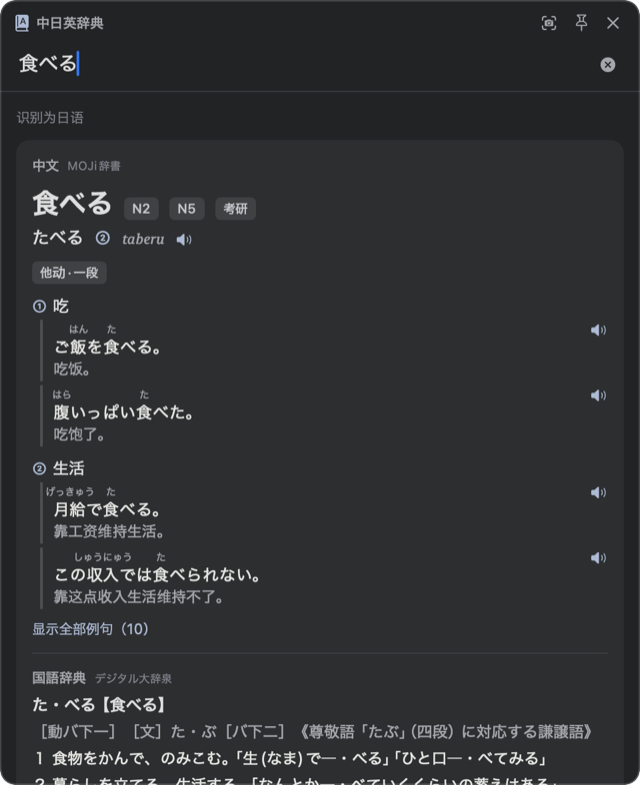
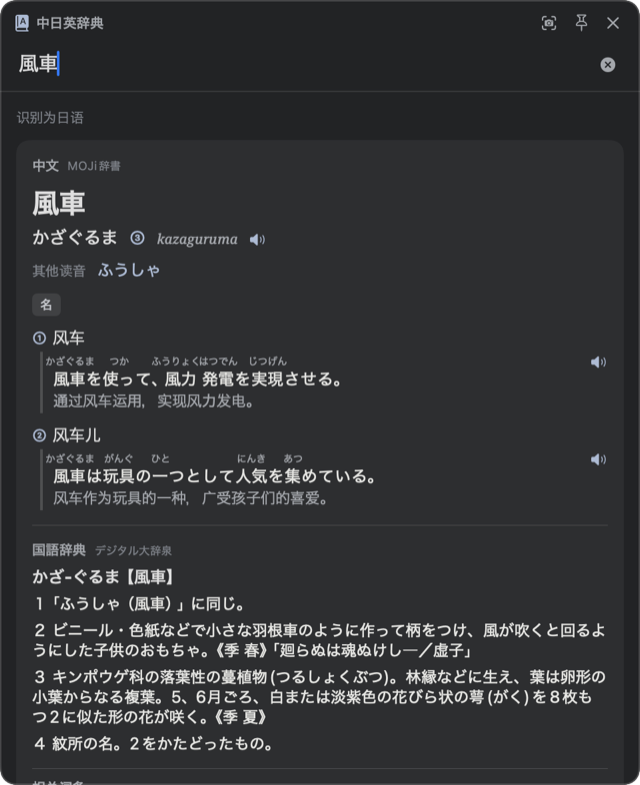
README: rewrite for everyday users, regenerate demos
- Rewrite the README as a product page: highlights up front, the three
  ways to look up, a feature list covering false-friend warnings and
  soft-wrap joining, install, shortcuts, FAQ (incl. privacy), sources;
  developer notes stay collapsed at the end.
- Regenerate demos with the latest build: the input demo looks up 手纸
  (false-friend warning, ちり紙), screenshots show 風車 (other readings,
  国語辞典), 手纸, and a Japanese sentence with furigana.
- Demo GIFs are now encoded with an ffmpeg palette for cleaner text.

diff --git a/scripts/demo/scene.swift b/scripts/demo/scene.swift
@@ -234,18 +234,37 @@ func screenshotOverlay(_ sel: NSRect) {
 
 // MARK: - 输出
 
+/// 逐帧缩放成 PNG，再用 ffmpeg 按整段动画生成调色板编码 GIF（比 ImageIO 逐帧量化的色带少、文字更清楚）
 func writeGIF(_ frames: [(NSBitmapImageRep, Int)], to path: String) {
     let outH = Int(CGFloat(outputWidth) * H / W)
-    let dest = CGImageDestinationCreateWithURL(URL(fileURLWithPath: path) as CFURL, UTType.gif.identifier as CFString, frames.count, nil)!
-    CGImageDestinationSetProperties(dest, [kCGImagePropertyGIFDictionary: [kCGImagePropertyGIFLoopCount: 0]] as CFDictionary)
-    for (rep, delay) in frames {
+    let dir = URL(fileURLWithPath: NSTemporaryDirectory()).appendingPathComponent("gif-\(UUID().uuidString)")
+    try! FileManager.default.createDirectory(at: dir, withIntermediateDirectories: true)
+    defer { try? FileManager.default.removeItem(at: dir) }
+    var list = ""
+    for (i, (rep, delay)) in frames.enumerated() {
         let ctx = CGContext(data: nil, width: outputWidth, height: outH, bitsPerComponent: 8, bytesPerRow: 0,
                             space: CGColorSpace(name: CGColorSpace.sRGB)!, bitmapInfo: CGImageAlphaInfo.premultipliedLast.rawValue)!
         ctx.interpolationQuality = .high
         ctx.draw(rep.cgImage!, in: CGRect(x: 0, y: 0, width: outputWidth, height: outH))
-        CGImageDestinationAddImage(dest, ctx.makeImage()!, [kCGImagePropertyGIFDictionary: [kCGImagePropertyGIFDelayTime: Double(delay) / 1000]] as CFDictionary)
+        let file = dir.appendingPathComponent(String(format: "f%03d.png", i))
+        let dest = CGImageDestinationCreateWithURL(file as CFURL, UTType.png.identifier as CFString, 1, nil)!
+        CGImageDestinationAddImage(dest, ctx.makeImage()!, nil)
+        precondition(CGImageDestinationFinalize(dest))
+        list += "file '\(file.path)'\nduration \(Double(delay) / 1000)\n"
     }
-    precondition(CGImageDestinationFinalize(dest))
+    // concat 的最后一帧要重复一次，duration 才会生效
+    list += "file '\(dir.appendingPathComponent(String(format: "f%03d.png", frames.count - 1)).path)'\n"
+    let listURL = dir.appendingPathComponent("list.txt")
+    try! list.write(to: listURL, atomically: true, encoding: .utf8)
+
+    let ffmpeg = Process()
+    ffmpeg.executableURL = URL(fileURLWithPath: "/usr/bin/env")
+    ffmpeg.arguments = ["ffmpeg", "-loglevel", "error", "-y", "-f", "concat", "-safe", "0", "-i", listURL.path,
+                        "-vf", "split[a][b];[a]palettegen=stats_mode=full:reserve_transparent=0[p];[b][p]paletteuse=dither=sierra2_4a",
+                        "-fps_mode", "vfr", "-loop", "0", path]
+    try! ffmpeg.run()
+    ffmpeg.waitUntilExit()
+    precondition(ffmpeg.terminationStatus == 0, "ffmpeg 失败")
     print("wrote \(path) (\(frames.count) frames)")
 }
 

diff --git a/README.md b/README.md
@@ -1,40 +1,50 @@
 <h1 align="center">中日英辞典</h1>
 
 <p align="center">
-  面向中文用户的 macOS 日语、英语查词与翻译工具<br>
-  支持划词翻译、截图翻译与输入翻译，同时呈现中、日、英三语结果
+  专为中文用户打造的 macOS 日语、英语查词与翻译工具<br>
+  划词、截图、输入，一个窗口同时呈现中、日、英三语结果
 </p>
 
 <p align="center">
   <a href="../../releases/latest"><img alt="release" src="https://img.shields.io/github/v/release/FinnKyo/mac-trilingual-dict?color=3E5C82&label=版本"></a>
   <img alt="platform" src="https://img.shields.io/badge/macOS-14%2B-3E5C82">
-  <img alt="arch" src="https://img.shields.io/badge/Apple%20Silicon%20%7C%20Intel-3E5C82">
-  <a href="LICENSE"><img alt="license" src="https://img.shields.io/badge/license-GPL--3.0-3E5C82"></a>
+  <img alt="arch" src="https://img.shields.io/badge/Apple%20芯片%20%7C%20Intel-3E5C82">
+  <img alt="price" src="https://img.shields.io/badge/免费-开源-3E5C82">
 </p>
 
 <p align="center">
-  <a href="../../releases/latest">下载</a> · <a href="#安装">安装</a> · <a href="#快捷键">快捷键</a> · <a href="#常见问题">常见问题</a>
+  <a href="../../releases/latest"><b>下载最新版</b></a> · <a href="#安装">安装</a> · <a href="#快捷键">快捷键</a> · <a href="#常见问题">常见问题</a>
 </p>
+
+---
+
+- **三语同屏**：输入任意一种语言，另外两种语言的结果一次呈现，无需来回切换
+- **专业词典**：日语采用 MOJi 辞書与《デジタル大辞泉》，英语采用有道词典，释义、读音、例句一应俱全
+- **同形异义提醒**：中日写法相同、意思不同的词（手纸 / 手紙、床、娘、走），自动提醒并给出正确说法
+- **假名注音**：日文原文与译文自动标注假名，点击任意单词即可查询
+- **轻量常驻**：菜单栏常驻，快捷键随时唤起，免费、无广告
 
 ## 划词翻译
 
-选中任意应用中的文本，悬停于随即出现的图标上，即可在选区旁查看释义。查询内容可在窗口中直接修改。
+在任意应用中选中文本，悬停于随即出现的图标上，即可在选区旁查看结果。查询内容可在窗口中直接修改，自动重新查询。
 
-<p align="center"><img src="docs/demo-selection.gif" width="660" alt="划词翻译"></p>
+<p align="center"><img src="docs/demo-selection.gif" width="680" alt="划词翻译"></p>
 
 ## 截图翻译
 
-按 `⌥S` 框选屏幕区域，识别其中的文字并翻译，适用于漫画、游戏、视频字幕等无法选中的文本。日文结果附假名注音。
+按 `⌥S` 框选屏幕区域，识别其中的文字并翻译，漫画、游戏、视频字幕、图片中无法选中的文字同样适用。文字识别在本机完成，日文结果自动标注假名。
 
-<p align="center"><img src="docs/demo-screenshot.gif" width="660" alt="截图翻译"></p>
+<p align="center"><img src="docs/demo-screenshot.gif" width="680" alt="截图翻译"></p>
 
 ## 输入翻译
 
-按 `⌥A` 打开翻译窗口，支持输入中文、英文、日文。
+按 `⌥A` 打开翻译窗口，中文、英文、日文直接输入，自动识别语言。
 
-<p align="center"><img src="docs/demo-input.gif" width="660" alt="输入翻译"></p>
+中文「手纸」是卫生纸，日语「手紙」却是信件。机器翻译遇到这类同形异义词常常照搬汉字，中日英辞典会明确提醒，并列出经词典确认的正确说法。
 
-<sub>演示中的阅读窗口与图片为示意内容，翻译窗口为应用实际界面。</sub>
+<p align="center"><img src="docs/demo-input.gif" width="680" alt="输入翻译"></p>
+
+<sub>演示中的阅读窗口与漫画为示意内容，翻译窗口为应用实际界面。</sub>
 
 ## 查询结果
 
@@ -43,65 +53,68 @@
     <th align="center">日语单词</th>
     <th align="center">英语单词</th>
     <th align="center">中文单词</th>
-    <th align="center">句子</th>
+    <th align="center">日语句子</th>
   </tr>
   <tr>
     <td><picture><source media="(prefers-color-scheme: dark)" srcset="docs/shot-ja-dark.png"><img src="docs/shot-ja-light.png" width="220" alt="日语单词"></picture></td>
     <td><picture><source media="(prefers-color-scheme: dark)" srcset="docs/shot-en-dark.png"><img src="docs/shot-en-light.png" width="220" alt="英语单词"></picture></td>
     <td><picture><source media="(prefers-color-scheme: dark)" srcset="docs/shot-zh-dark.png"><img src="docs/shot-zh-light.png" width="220" alt="中文单词"></picture></td>
-    <td><picture><source media="(prefers-color-scheme: dark)" srcset="docs/shot-sentence-dark.png"><img src="docs/shot-sentence-light.png" width="220" alt="句子"></picture></td>
+    <td><picture><source media="(prefers-color-scheme: dark)" srcset="docs/shot-sentence-dark.png"><img src="docs/shot-sentence-light.png" width="220" alt="日语句子"></picture></td>
   </tr>
 </table>
 
 ## 功能
 
-**三语互译**
-- 输入任一语言，同时显示另外两种语言的结果
-- 单词显示词典释义，句子显示机器翻译
-- 中文单词的日语结果以机器翻译为主，下方列出词典确认的日语对应词（汉日词典，经 MOJi 辞書校验）和相关日语词，可点击查看完整词条
-- 识别中日同形异义词：机器翻译把「床」「娘」「走」照搬成日语的「床（地板）」「娘（女儿）」「走る（跑）」时给出提醒，并列出正确的对应词「ベッド」「母」「歩く」
-- 句子翻译可选 Bing 翻译或 macOS 系统离线翻译，长文本自动分段翻译并保留原有分段；从 PDF、网页复制的文字会先合并排版折行，再整句翻译
-
 **日语词典**
 - 读音、声调、罗马音、词性、JLPT 等级
-- 分义项的中文释义，例句附假名注音与中文翻译
-- 单词与例句均提供真人发音
-- 日文释义来自《デジタル大辞泉》，可展开全部义项
-- 自动还原活用形，如「食べさせられた」→「食べる」
-- 同形异读词列出其他读音，可一键切换，如「生物」せいぶつ／なまもの／いきもの
-- 同音词与相关词条
+- 分义项中文释义，例句附假名注音与中文翻译
+- 单词与例句均配有真人发音
+- 收录《デジタル大辞泉》日文原版释义，可展开全部义项
+- 自动还原活用形，查「食べさせられた」直接得到「食べる」
+- 同形异读词列出全部读音，一键切换，如「風車」かざぐるま／ふうしゃ、「生物」せいぶつ／なまもの
 
 **英语词典**
-- 英美音标与发音
-- 考试标签（CET-4 / CET-6 / 考研 / GRE 等）
+- 英美音标与真人发音
+- 四六级、考研、GRE 等考试标签
 - 词形变化、常用短语、双语例句
 
-**其他**
-- 日文原文与译文自动标注假名（离线形态素分析，多音字、数量词按上下文读，如「一日中」「二十歳」「三本」）
-- 点击句子里的日语单词即可查询它的原形（点「行った」查「行く」）
-- 自动识别输入语言；「命令」「学习」这类中日都能成立的汉字词，可一键改按另一种语言查询
-- 释义中的词语可直接查询，支持返回
-- 常驻菜单栏，支持浅色与深色模式
+**中文查日语、英语**
+- 英文给出词典释义，点击英文单词可继续查询
+- 日文给出机器翻译，以及经汉日词典确认的日语说法，均附读音与释义
+- 识别中日同形异义词，提醒日语中的真正含义，避免照搬汉字造成误用
+
+**句子翻译**
+- 任一语言的句子同时译为另外两种语言
+- 日文句子自动标注假名，点击句中单词即可查询其原形（点「行った」查询「行く」）
+- 自动合并从 PDF、网页复制时产生的排版换行，整句翻译更准确
+- 支持 Bing 翻译与 macOS 系统离线翻译，可设置失败时自动切换
+
+**更多细节**
+- 自动识别输入语言；「学习」「命令」等中日通用的汉字词可一键切换语言重新查询
+- 释义中的词语可直接点击查询，支持返回
+- 支持浅色与深色模式
 
 ## 安装
 
 1. 从 [Releases](../../releases/latest) 下载 `DictTranslator-x.y.z.zip`，解压后将 `DictTranslator.app` 移至「应用程序」文件夹。
+
 2. 首次打开时，系统可能提示「已损坏，无法打开」或「无法验证开发者」。本应用未经 Apple 公证，文件本身并无问题，可通过以下任一方式打开：
    - 前往「系统设置 › 隐私与安全性」，在页面底部点击「仍要打开」；
    - 或在「终端」中执行：
      ```bash
      xattr -dr com.apple.quarantine /Applications/DictTranslator.app
      ```
+
 3. 根据引导授予以下权限：
 
    | 权限 | 用途 |
    |---|---|
    | 辅助功能 | 读取其他应用中选中的文本（划词翻译、`⌥D`） |
-   | 屏幕与系统音频录制 | 截取所选区域并识别文字（`⌥S`），授权后需重启应用 |
+   | 屏幕与系统音频录制 | 截图翻译（`⌥S`），授权后需重启应用 |
 
-截图仅在本机完成文字识别，图片在识别后立即删除，不会上传。识别出的文字及划词选中的文字将发送至词典与翻译服务进行查询。
+   未授予的权限只影响对应功能，输入翻译不受影响。
 
-更新时，下载新版本并覆盖原有应用即可。
+**更新**：下载新版本覆盖原有应用即可，设置会保留。
 
 **系统要求**：macOS 14 或更高版本，支持 Apple 芯片与 Intel 处理器。
 
@@ -116,37 +129,44 @@
 
 快捷键可在「设置 › 通用」中自定义。
 
-- 翻译窗口失去焦点时自动关闭，点击右上角图钉可将其固定。
-- 划词翻译时窗口显示在选区附近，通过快捷键打开时显示在屏幕右上角。
-- 可在「设置 › 划词」中将指定应用加入黑名单，不显示划词图标。
+- 翻译窗口失去焦点时自动收起，点击右上角图钉可固定窗口。
+- 划词时窗口显示在选区附近，通过快捷键打开时显示在屏幕右上角。
+- 可在「设置 › 划词」中将应用加入黑名单，不显示划词图标。默认包含终端、Xcode、VS Code 与访达。
+- 句子翻译默认使用 Bing。macOS 26 及以上可改用系统离线翻译，需先在「系统设置 › 通用 › 语言与地区 › 翻译语言」中下载中文、英语、日语。
 
 ## 常见问题
 
 <details>
 <summary>已在系统设置中授权，应用仍显示「未授权」</summary>
 
-更新应用后，系统可能将其识别为新的应用。请在「系统设置 › 隐私与安全性」的对应权限中移除「中日英辞典」，重新添加或勾选后重启应用。
+更新应用后，系统可能将其识别为新应用。请在「系统设置 › 隐私与安全性」的对应权限中移除「中日英辞典」，重新添加或勾选后重启应用。
 </details>
 
 <details>
 <summary>选中文本后未出现划词图标</summary>
 
 - 确认已授予「辅助功能」权限，且菜单栏菜单中已勾选「划词翻译」。
-- 确认当前应用不在划词黑名单中（「设置 › 划词」）。默认黑名单包括终端、Xcode、VS Code 和访达。
+- 确认当前应用不在划词黑名单中（「设置 › 划词」）。
 - 图标会在数秒后自动隐藏，可在设置中调整显示时长。
-- 划词图标只通过「辅助功能」读取选中文本，不会模拟 ⌘C、不会改动剪贴板；少数不支持辅助功能的应用中读不到选区，此时可在选中文本后按 `⌥D` 直接翻译。
+- 划词仅通过系统辅助功能读取选中文本，不会模拟 ⌘C，也不会改动剪贴板。少数不支持辅助功能的应用无法读取选区，此时选中文本后按 `⌥D` 即可翻译。
 </details>
 
 <details>
 <summary>查询失败或句子无翻译结果</summary>
 
-查询需要网络连接。可点击结果中的「重试」，或在输入框中按回车重新查询。句子翻译默认使用 Bing，可在「设置 › 通用」中改用系统离线翻译，或开启「失败时自动换用另一个服务」。系统离线翻译需 macOS 26 或更高版本，并在「系统设置 › 通用 › 语言与地区 › 翻译语言」中下载中文、英语、日语。
+查询需要网络连接。可点击结果中的「重试」，或在输入框中按回车重新查询。也可在「设置 › 通用」中开启「失败时自动换用另一个服务」，或改用系统离线翻译。
 </details>
 
 <details>
 <summary>汉字词被识别成了另一种语言</summary>
 
-「命令」「学习」这类在中文、日语里都成立的汉字词，可能被识别为另一种语言。点击结果上方「识别为中文 · 改为日语」中的「改为…」即可切换。含有只属于一种语言的字（如「们」「経」）或含假名的文本不会识别错，不显示切换。
+「学习」「命令」「床」等中日通用的汉字词可能被识别为另一种语言，点击结果上方「识别为中文 · 改为日语」中的「改为…」即可切换。含有只属于一种语言的字（如「们」「経」）或含假名的文本不会识别错误，不显示切换。
+</details>
+
+<details>
+<summary>隐私与数据</summary>
+
+截图仅在本机完成文字识别，识别后立即删除，不会上传。识别出的文字以及选中、输入的文字会发送至下方列出的词典与翻译服务进行查询。应用不包含任何统计或追踪。
 </details>
 
 ## 数据来源与声明
@@ -157,11 +177,13 @@
 |---|---|
 | 日语词典、真人发音 | MOJi 辞書 |
 | 日文释义 | 《デジタル大辞泉》（小学館），经由 Weblio 辞書 |
-| 英语词典、英语发音 | 有道词典 |
+| 英语词典、英语发音、汉日对应词 | 有道词典 |
 | 句子翻译 | Bing 翻译、macOS 系统翻译（可在设置中选择） |
-| 文字识别、句子朗读 | macOS 系统功能 |
+| 文字识别、句子朗读、假名注音 | macOS 系统功能、MeCab（本机运行） |
 
 上述在线服务均通过其网页版接口访问，并非官方开放 API，可能随时变更或不可用。请仅用于个人学习，并遵守各服务的使用条款。
+
+问题反馈与功能建议请提交至 [Issues](../../issues)。
 
 <details>
 <summary><b>开发</b></summary>
@@ -181,42 +203,40 @@ cd mac-trilingual-dict
 ### 常用命令
 
 ```bash
-swift test                                              # 解析、语言识别与网络接口测试
-swift build && .build/debug/DictTranslator --render "食べた" out.png [--dark]   # 离屏渲染结果界面
-.build/debug/DictTranslator --identify corpus.json      # 中日识别准确率评测（{"ja": [...], "zh": [...]}）
-.build/debug/DictTranslator --furigana "今日は一日中雨"   # 查看注音与原形：表层(读音)[原形]
-.build/debug/DictTranslator --word-bench words.json out.json   # 中文单词 → 日语评测（{"中文词": ["可接受的日语", ...]}）
-.build/debug/DictTranslator --mt-bench src.txt zh ja out.txt 100   # 逐行翻译，再用 python3 scripts/chrf.py ref.txt out.txt 打分
-scripts/package.sh                                      # 生成发布用 zip
-scripts/demo/make_demo.sh                               # 重新生成 docs/ 中的演示动画与截图
+swift test                                                       # 解析、语言识别与网络接口测试
+.build/debug/DictTranslator --render "食べた" out.png [--dark]     # 离屏渲染查询结果
+.build/debug/DictTranslator --furigana "今日は一日中雨"            # 查看注音与原形
+.build/debug/DictTranslator --identify corpus.json               # 中日识别准确率（{"ja": [...], "zh": [...]}）
+.build/debug/DictTranslator --word-bench words.json out.json     # 中文单词 → 日语评测，词表见 scripts/bench
+.build/debug/DictTranslator --mt-bench src.txt zh ja out.txt 100 # 逐行翻译，再用 scripts/chrf.py 打分
+scripts/package.sh                                               # 生成发布用 zip
+scripts/demo/make_demo.sh                                        # 重新生成 docs/ 中的演示图（需要 ffmpeg）
 ```
 
-`docs/` 中的演示图由 `scripts/demo/make_demo.sh` 生成：仅截取调试版应用自身的窗口，不需要屏幕录制权限，也不会包含桌面内容，再合成到 `scene.swift` 绘制的示意场景中。
+演示图仅截取调试版应用自身的窗口（不需要屏幕录制权限，也不会包含桌面内容），再合成到 `scripts/demo/scene.swift` 绘制的示意场景中。
 
 ### 实现说明
 
 | 模块 | 实现 |
 |---|---|
-| 日语词条、汉日反查、日语发音 | MOJi 辞書网页接口（搜索 REST 接口，词条与发音 Parse 云函数） |
-| 日文释义 | Weblio 辞書页面中的《デジタル大辞泉》条目 |
-| 英语词条、汉英词条、英语单词发音 | 有道词典网页接口 |
-| 句子翻译 | Bing 翻译网页接口或 macOS 系统离线翻译（Translation 框架），可在「设置 › 通用」中选择，失败时可自动换用另一个 |
-| 句子朗读 | AVSpeechSynthesizer |
+| 日语词条、发音 | MOJi 辞書网页接口（搜索 REST 接口，词条与发音 Parse 云函数） |
+| 日文释义 | Weblio 页面中的《デジタル大辞泉》条目 |
+| 英语、汉英词条 | 有道词典网页接口 |
+| 中文词 → 日语 | 有道《现代日汉汉日词典》对应词，经 MOJi 校验写法；按 MOJi 释义识别同形异义（`FalseFriendDetector`） |
+| 句子翻译 | Bing 翻译网页接口或 macOS Translation 框架，翻译前合并排版换行 |
 | 中日语言识别 | 汉字字库归属（GB2312 / JIS）、NaturalLanguage、词典收录、Google 语言检测加权判断 |
-| 日文注音、词的原形 | MOJi 例句注音；其余使用 MeCab + IPADic 离线分析，数词＋量词按音变规则重新注音（`JapaneseNumerals`） |
-| 文字识别 | Vision |
-
-### 目录结构
+| 日文注音、原形 | MOJi 例句注音；其余使用 MeCab + IPADic 离线分析，数词＋量词按音变规则重新注音 |
+| 文字识别、朗读 | Vision、AVSpeechSynthesizer |
 
 ```
 Sources/DictTranslator/
-  App/         菜单栏、主菜单、快捷键、权限、设置项
-  Core/        语言识别、词句判定、查询状态（LookupViewModel）
-  Services/    MOJi 辞書、Weblio、有道词典、翻译服务、注音、OCR、发音
-  Selection/   划词监听、选中文本读取、划词图标
+  App/         菜单栏、快捷键、权限、设置项、调试命令
+  Core/        语言识别、同形异义检查、查询状态（LookupViewModel）
+  Services/    各词典与翻译服务、注音、OCR、发音
+  Selection/   划词监听与选中文本读取
   Screenshot/  截图翻译
-  UI/          翻译窗口、结果视图、词条视图、配色、设置界面
-scripts/       打包与演示图生成
+  UI/          翻译窗口、结果与词条视图、设置界面
+scripts/       打包、演示图生成、评测
 ```
 
 第三方依赖：[KeyboardShortcuts](https://github.com/sindresorhus/KeyboardShortcuts)（MIT）、[Mecab-Swift](https://github.com/shinjukunian/Mecab-Swift)（MIT，内含 [MeCab](https://taku910.github.io/mecab/)（BSD）与 IPADic 词典（NAIST/IPA 许可））。
